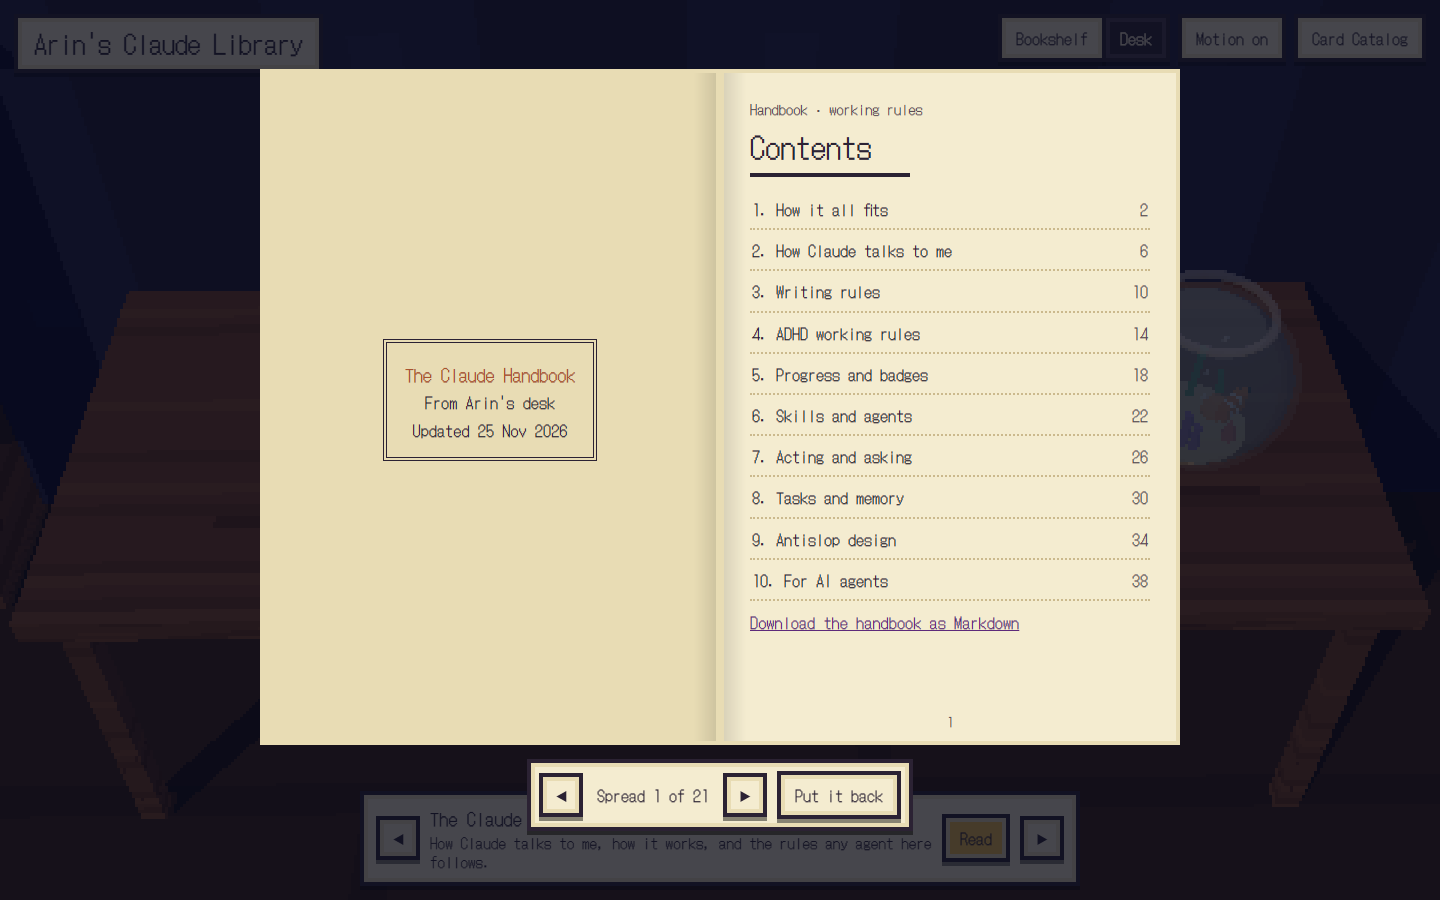
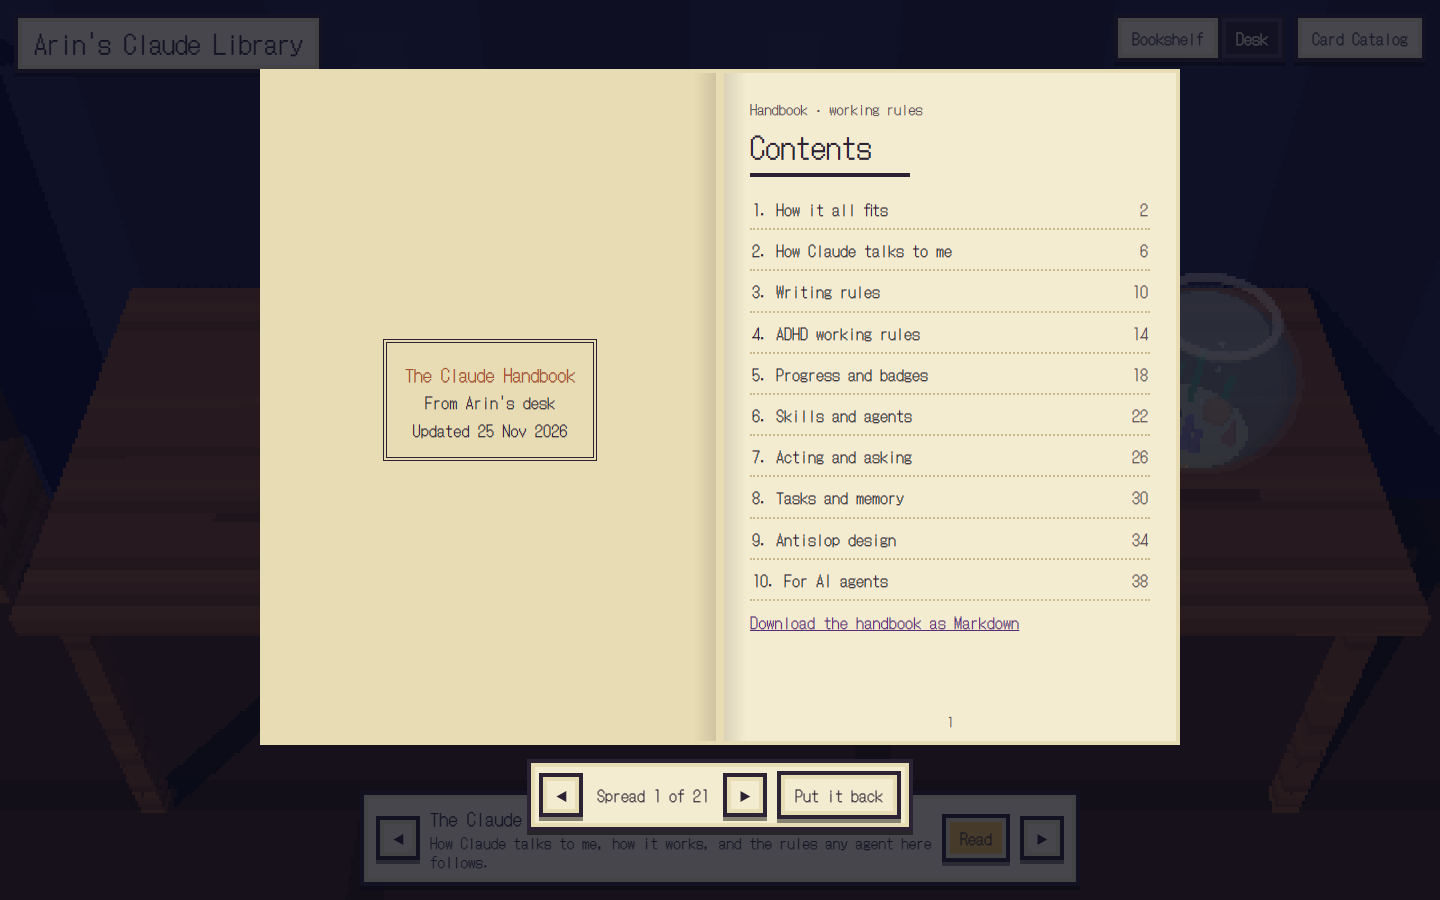
Motion is the only mode; scroll swaps between shelf and desk

Changed region(s): [[0.6875, 0.0, 0.9062, 0.0622], [0.8125, 0.28, 0.8438, 0.3422]]

diff --git a/app.js b/app.js
@@ -10,22 +10,12 @@ const clamp = (v, a, b) => Math.min(b, Math.max(a, v));
 function hash(s) { let h = 2166136261; for (const c of s) h = Math.imul(h ^ c.charCodeAt(0), 16777619); return (h >>> 0) / 4294967295; }
 function el(tag, cls, text) { const e = document.createElement(tag); if (cls) e.className = cls; if (text != null) e.textContent = text; return e; }
 
-// ---------- motion setting ----------
-// On by default (owner's call, overrides the system reduce-motion setting). The Motion switch turns it off and is remembered.
-const store = { get: (k) => { try { return localStorage.getItem(k); } catch { return null; } }, set: (k, v) => { try { localStorage.setItem(k, v); } catch { /* private mode */ } } };
-let motion = new URLSearchParams(location.search).has('motion') || store.get('motion') !== 'off';
-function setMotion(on, save) {
-  motion = on;
-  document.documentElement.classList.toggle('motion', on);
-  const b = $('motion-btn'); b.setAttribute('aria-pressed', String(on)); b.textContent = on ? 'Motion on' : 'Motion off';
-  if (save) store.set('motion', on ? 'on' : 'off');
-}
-setMotion(motion, false);
-$('motion-btn').onclick = () => setMotion(!motion, true);
-const wait = (ms) => new Promise((r) => setTimeout(r, motion ? ms : 0));
+// ---------- timing ----------
+// Motion is always on, by design: the system reduce-motion setting is not followed.
+const wait = (ms) => new Promise((r) => setTimeout(r, ms));
 function tween(ms, fn) {
   return new Promise((res) => {
-    if (!motion || ms <= 0) { fn(1); res(); return; }
+    if (ms <= 0) { fn(1); res(); return; }
     const t0 = performance.now();
     const step = (now) => { const t = Math.min(1, (now - t0) / ms); fn(t); t < 1 ? requestAnimationFrame(step) : res(); };
     requestAnimationFrame(step);
@@ -259,7 +249,7 @@ function buildFishbowl(group, x, z) {
   fishbowl = { fish, weeds, bubbles, cy };
 }
 function animateBowl(t) {
-  if (!fishbowl || !motion) return;
+  if (!fishbowl) return;
   const { fish, weeds, bubbles, cy } = fishbowl;
   const a = t * 0.7;
   fish.position.set(Math.cos(a) * 0.22, cy - 0.04 + Math.sin(t * 1.6) * 0.04, Math.sin(a) * 0.22);
@@ -384,7 +374,7 @@ function pose(v) {
 function ensureVisible(b) {
   if (!scrollRange || !b.mesh || view !== 'shelf') return;
   const t = clamp((yTop - b.mesh.position.y) / (yTop - yBottom || 1), 0, 1);
-  if (Math.abs(b.mesh.position.y - camYForScroll()) > dist * FOV_T * 0.55) scrollTo({ top: t * scrollRange, behavior: motion ? 'smooth' : 'auto' });
+  if (Math.abs(b.mesh.position.y - camYForScroll()) > dist * FOV_T * 0.55) scrollTo({ top: t * scrollRange, behavior: 'smooth' });
 }
 function setView(v) {
   if (busy || reading || v === view) return;
@@ -409,6 +399,17 @@ document.addEventListener('keydown', (e) => {
   if (document.activeElement !== document.body) return;
   e.preventDefault(); setView(e.key === 'ArrowRight' ? 'desk' : 'shelf');
 });
+// Scroll down to walk to the desk, up to walk back. On a phone the shelf scrolls first, then the desk.
+let wheelLock = 0;
+addEventListener('wheel', (e) => {
+  if (reading || busy || catalog.open || performance.now() < wheelLock) return;
+  const d = Math.abs(e.deltaX) > Math.abs(e.deltaY) ? e.deltaX : e.deltaY;
+  if (Math.abs(d) < 25) return;
+  if (d > 0 && view === 'shelf' && (!scrollRange || scrollY >= scrollRange - 2)) setView('desk');
+  else if (d < 0 && view === 'desk') setView('shelf');
+  else return;
+  wheelLock = performance.now() + 1100;
+}, { passive: true });
 $('view-shelf').onclick = () => setView('shelf');
 $('view-desk').onclick = () => setView('desk');
 
@@ -720,7 +721,6 @@ function updateCount() {
 const TURN_MS = 900;
 function animateTurn(leaf, forward) {
   const from = forward ? 0 : -180, to = forward ? -180 : 0;
-  if (!motion) { leaf.style.transform = `rotateY(${to}deg)`; return Promise.resolve(); }
   leaf.style.transform = 'none'; leaf.classList.add('turning');
   spread.style.setProperty('--turn', TURN_MS + 'ms');
   const segs = leaf.segs;
@@ -744,14 +744,13 @@ function turn(to) {
   const done = animateTurn(leaf, forward);
   stack(); updateCount();
   done.then(stack);
-  if (flips !== to) setTimeout(() => turn(to), motion ? (Math.abs(to - flips) > 2 ? 70 : 140) : 0);
+  if (flips !== to) setTimeout(() => turn(to), Math.abs(to - flips) > 2 ? 70 : 140);
 }
 // Closing shuts the book in one motion: every turned page swings back together, like a real cover.
 function shut() {
   const turned = leaves.slice(0, flips);
   flips = 0; spread.classList.add('closed'); updateCount();
   if (!turned.length) return Promise.resolve();
-  if (!motion) { turned.forEach((l) => { l.style.transform = 'rotateY(0deg)'; }); stack(); return Promise.resolve(); }
   const D = 650;
   turned.forEach((l, i) => { l.style.zIndex = 500 + i; });
   const anims = turned.map((l) => l.animate([{ transform: 'rotateY(-180deg)' }, { transform: 'rotateY(0deg)' }], { duration: D, easing: 'cubic-bezier(.5,0,.3,1)', fill: 'forwards' }));
@@ -992,7 +991,7 @@ let last = performance.now();
 function loop(now) {
   const dt = Math.min(0.05, (now - last) / 1000); last = now;
   if (!reading && !busy) {
-    camX = motion ? lerp(camX, parallax * 0.18, Math.min(1, dt * 3)) : 0;
+    camX = lerp(camX, parallax * 0.18, Math.min(1, dt * 3));
     const target = pose(view);
     const e = ease(viewT);
     camera.position.lerpVectors(camFrom.pos, target.pos, e); camLook.lerpVectors(camFrom.look, target.look, e);
@@ -1000,7 +999,7 @@ function loop(now) {
     for (const it of [...books, ...deskItems]) {
       if (!it.mesh || it.mesh.parent === scene) continue;
       const goal = it === sel || it === hovered ? (it.axis === 'z' ? 0.14 : 0.12) : 0;
-      it.pull = lerp(it.pull, goal, motion ? Math.min(1, dt * 12) : 1);
+      it.pull = lerp(it.pull, goal, Math.min(1, dt * 12));
       applyPull(it);
     }
     for (const p of plaques) {

diff --git a/index.html b/index.html
@@ -23,7 +23,6 @@
       <button type="button" class="btn tab" id="view-shelf" aria-pressed="true">Bookshelf</button>
       <button type="button" class="btn tab" id="view-desk" aria-pressed="false">Desk</button>
     </div>
-    <button type="button" class="btn" id="motion-btn" aria-pressed="true">Motion on</button>
     <button type="button" class="btn" id="index-btn" aria-haspopup="dialog"><span class="hide-sm">Card </span>Catalog</button>
   </nav>
 </header>

diff --git a/style.css b/style.css
@@ -239,4 +239,3 @@ h1 { font-size: clamp(1.1rem, 2.4vw, 1.6rem); font-weight: 400; margin: 0 0 2px;
   .lcd { height: min(250px, 46vh); }
 }
 
-html:not(.motion) *, html:not(.motion) *::before, html:not(.motion) *::after { transition-duration: 0s !important; animation: none !important; }

diff --git a/tools/shoot.py b/tools/shoot.py
@@ -55,7 +55,7 @@ with sync_playwright() as pw:
         b = pw.chromium.launch(args=args)
 
     p = page_for(b, 1440, 900)
-    check(p.locator('#motion-btn').inner_text() == 'Motion on', 'motion is on by default')
+    check(p.locator('#motion-btn').count() == 0, 'there is no motion switch')
     shot(p, 'shelf')
     p.mouse.move(250, 260)
     p.wait_for_timeout(500)
@@ -80,6 +80,13 @@ with sync_playwright() as pw:
     p.mouse.click(30, 450)
     check(closed(p, '#reader'), 'clicking outside the book puts it back')
 
+    p.mouse.move(700, 400)
+    p.mouse.wheel(0, 300)
+    p.wait_for_timeout(1400)
+    check(p.locator('#view-desk').get_attribute('aria-pressed') == 'true', 'scrolling down walks to the desk')
+    p.mouse.wheel(0, -300)
+    p.wait_for_timeout(1400)
+    check(p.locator('#view-shelf').get_attribute('aria-pressed') == 'true', 'scrolling up walks back to the shelf')
     p.locator('#scene').focus()
     p.keyboard.press('ArrowUp')
     p.evaluate("document.activeElement.blur()")

diff --git a/README.md b/README.md
@@ -101,10 +101,10 @@ After editing, `node tools/export.mjs` regenerates the Markdown in `kit/`, and `
 | Turn pages | Click the page edge | Swipe | Left and right arrows, Home, End |
 | Put it back | Click outside it, or Put it back | Tap outside it | Escape |
 | Phone menus | Click a row | Tap a row | Up, down, Enter, Backspace, or number keys |
-| Switch rooms | Bookshelf and Desk tabs | Same | Arrow right past the last book on a right-hand shelf walks to the desk. Arrow left from the first desk item walks back. Before you pick anything, left and right switch rooms directly. |
+| Switch rooms | Bookshelf and Desk tabs, or scroll down for the desk and up for the shelf | Tabs | Arrow right past the last book on a right-hand shelf walks to the desk. Arrow left from the first desk item walks back. Before you pick anything, left and right switch rooms directly. |
 | Search | Card catalog | Card catalog | Press `/` |
 
-The **Card catalog** lists every item and has a search box. The **Motion** switch turns the animations off and remembers your choice.
+The **Card catalog** lists every item and has a search box.
 
 Every item has its own link: opening one puts it in the address bar, like `#/stark` or `#/the-claude-handbook`, so you can share a single book.
 
